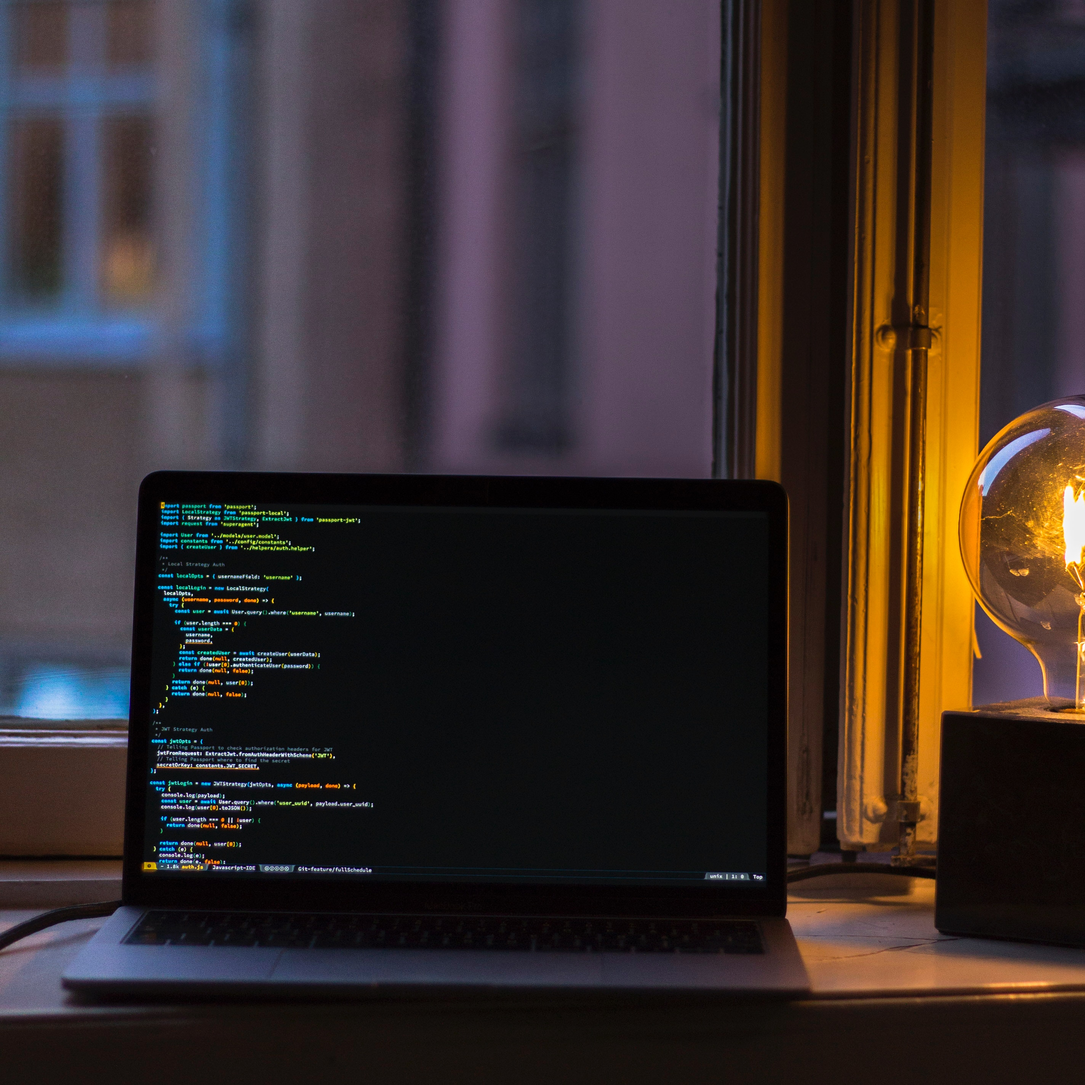
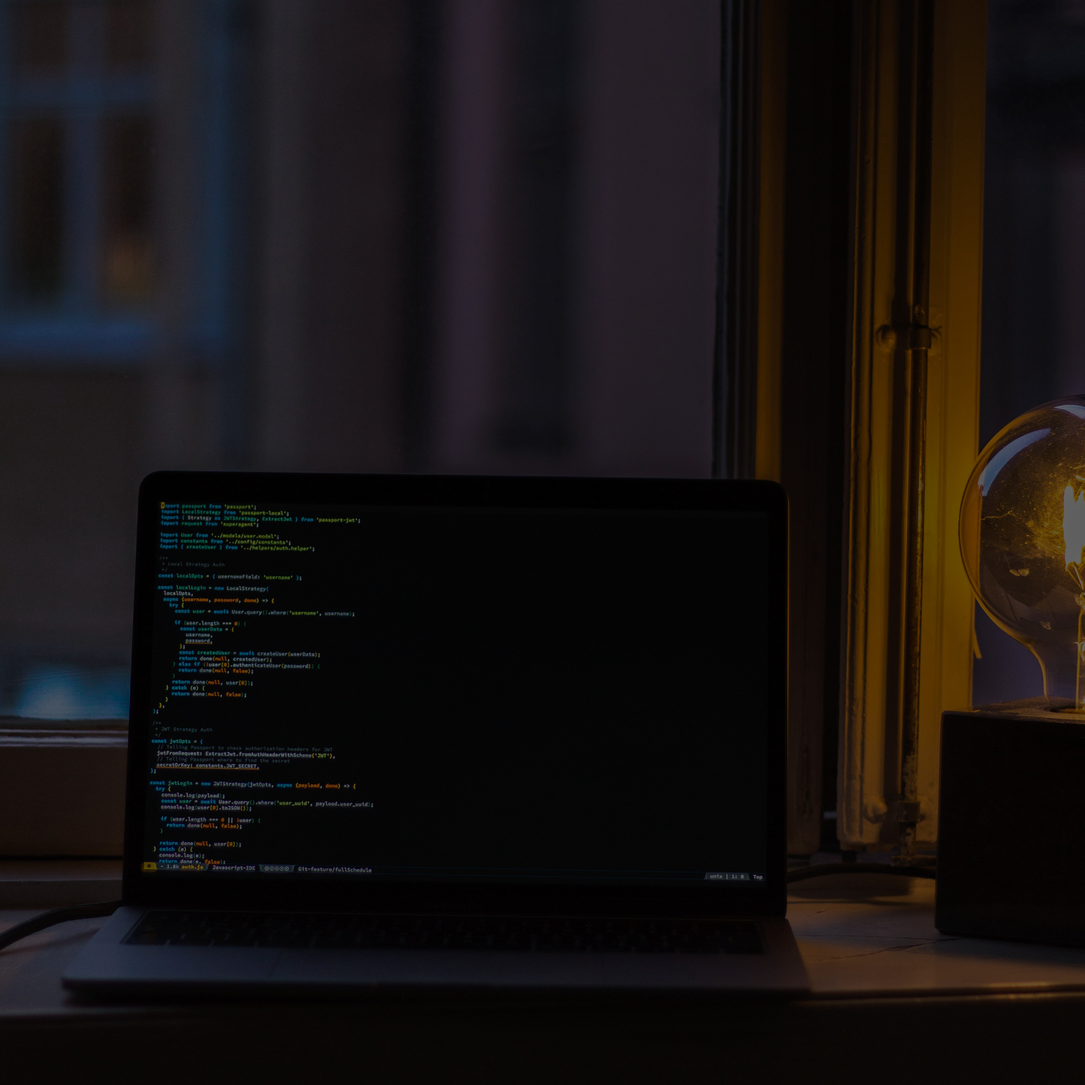
Darken header background image in Photoshop instead of CSS
- IE doesn't support `background-blend-mode` and shows the raw image.
- Pixel 3 is affected by https://bugs.chromium.org/p/chromium/issues/detail?id=978354 and shows only a gray color.

diff --git a/css/agency.min.css b/css/agency.min.css
@@ -2,4 +2,4 @@
  * Start Bootstrap - Agency v5.2.1 (https://startbootstrap.com/template-overviews/agency)
  * Copyright 2013-2019 Start Bootstrap
  * Licensed under MIT (https://github.com/BlackrockDigital/startbootstrap-agency/blob/master/LICENSE)
- */body{overflow-x:hidden;font-family:'Roboto Slab',-apple-system,BlinkMacSystemFont,'Segoe UI',Roboto,'Helvetica Neue',Arial,sans-serif,'Apple Color Emoji','Segoe UI Emoji','Segoe UI Symbol','Noto Color Emoji'}p{line-height:1.75}a{color:#fed136}a:hover{color:#fec503}.text-primary{color:#fed136!important}h1,h2,h3,h4,h5,h6{font-weight:700;font-family:Montserrat,-apple-system,BlinkMacSystemFont,'Segoe UI',Roboto,'Helvetica Neue',Arial,sans-serif,'Apple Color Emoji','Segoe UI Emoji','Segoe UI Symbol','Noto Color Emoji'}.page-section{padding:100px 0}.page-section h2.section-heading{font-size:40px;margin-top:0;margin-bottom:15px}.page-section h3.section-subheading{font-size:16px;font-weight:400;font-style:italic;margin-bottom:75px;text-transform:none;font-family:'Droid Serif',-apple-system,BlinkMacSystemFont,'Segoe UI',Roboto,'Helvetica Neue',Arial,sans-serif,'Apple Color Emoji','Segoe UI Emoji','Segoe UI Symbol','Noto Color Emoji'}@media (min-width:768px){section{padding:150px 0}}::-moz-selection{background:#fed136;text-shadow:none}::selection{background:#fed136;text-shadow:none}img::-moz-selection{background:0 0}img::selection{background:0 0}img::-moz-selection{background:0 0}.btn{font-family:Montserrat,-apple-system,BlinkMacSystemFont,'Segoe UI',Roboto,'Helvetica Neue',Arial,sans-serif,'Apple Color Emoji','Segoe UI Emoji','Segoe UI Symbol','Noto Color Emoji';font-weight:700}.btn-xl{font-size:18px;padding:20px 40px}.btn-primary{background-color:#fed136;border-color:#fed136}.btn-primary:active,.btn-primary:focus,.btn-primary:hover{background-color:#fec810!important;border-color:#fec810!important;color:#fff}.btn-primary:active,.btn-primary:focus{-webkit-box-shadow:0 0 0 .2rem rgba(254,209,55,.5)!important;box-shadow:0 0 0 .2rem rgba(254,209,55,.5)!important}#mainNav{background-color:#212529}#mainNav .navbar-toggler{font-size:12px;right:0;padding:13px;text-transform:uppercase;color:#fff;border:0;background-color:#fed136;font-family:Montserrat,-apple-system,BlinkMacSystemFont,'Segoe UI',Roboto,'Helvetica Neue',Arial,sans-serif,'Apple Color Emoji','Segoe UI Emoji','Segoe UI Symbol','Noto Color Emoji'}#mainNav .navbar-brand{color:#fed136;font-family:'Kaushan Script',-apple-system,BlinkMacSystemFont,'Segoe UI',Roboto,'Helvetica Neue',Arial,sans-serif,'Apple Color Emoji','Segoe UI Emoji','Segoe UI Symbol','Noto Color Emoji'}#mainNav .navbar-brand.active,#mainNav .navbar-brand:active,#mainNav .navbar-brand:focus,#mainNav .navbar-brand:hover{color:#fec503}#mainNav .navbar-nav .nav-item .nav-link{font-size:90%;font-weight:400;padding:.75em 0;letter-spacing:1px;color:#fff;font-family:Montserrat,-apple-system,BlinkMacSystemFont,'Segoe UI',Roboto,'Helvetica Neue',Arial,sans-serif,'Apple Color Emoji','Segoe UI Emoji','Segoe UI Symbol','Noto Color Emoji'}#mainNav .navbar-nav .nav-item .nav-link.active,#mainNav .navbar-nav .nav-item .nav-link:hover{color:#fed136}@media (min-width:992px){#mainNav{padding-top:25px;padding-bottom:25px;-webkit-transition:padding-top .3s,padding-bottom .3s;transition:padding-top .3s,padding-bottom .3s;border:none;background-color:transparent}#mainNav .navbar-brand{font-size:1.75em;-webkit-transition:all .3s;transition:all .3s}#mainNav .navbar-nav .nav-item .nav-link{padding:1.1em 1em!important}#mainNav.navbar-shrink{padding-top:0;padding-bottom:0;background-color:#212529}#mainNav.navbar-shrink .navbar-brand{font-size:1.25em;padding:12px 0}}header.masthead{text-align:center;color:#fff;background-image:url(../img/header-bg-small.jpg);background-color:rgba(0,0,0,.6);background-blend-mode:multiply;background-repeat:no-repeat;background-attachment:scroll;background-position:center center;background-size:cover}header.masthead .intro-text{padding-top:150px;padding-bottom:100px}header.masthead .intro-text .intro-lead-in{font-size:22px;font-style:italic;line-height:22px;margin-bottom:25px;font-family:'Droid Serif',-apple-system,BlinkMacSystemFont,'Segoe UI',Roboto,'Helvetica Neue',Arial,sans-serif,'Apple Color Emoji','Segoe UI Emoji','Segoe UI Symbol','Noto Color Emoji'}header.masthead .intro-text .intro-heading{font-size:50px;font-weight:700;line-height:50px;margin-bottom:25px;font-family:Montserrat,-apple-system,BlinkMacSystemFont,'Segoe UI',Roboto,'Helvetica Neue',Arial,sans-serif,'Apple Color Emoji','Segoe UI Emoji','Segoe UI Symbol','Noto Color Emoji'}@media (min-width:768px){header.masthead .intro-text{padding-top:300px;padding-bottom:200px}header.masthead .intro-text .intro-lead-in{font-size:40px;font-style:italic;line-height:40px;margin-bottom:25px;font-family:'Droid Serif',-apple-system,BlinkMacSystemFont,'Segoe UI',Roboto,'Helvetica Neue',Arial,sans-serif,'Apple Color Emoji','Segoe UI Emoji','Segoe UI Symbol','Noto Color Emoji'}header.masthead .intro-text .intro-heading{font-size:75px;font-weight:700;line-height:75px;margin-bottom:50px;font-family:Montserrat,-apple-system,BlinkMacSystemFont,'Segoe UI',Roboto,'Helvetica Neue',Arial,sans-serif,'Apple Color Emoji','Segoe UI Emoji','Segoe UI Symbol','Noto Color Emoji'}}@media (min-width:768px){header.masthead{background-image:url(../img/header-bg-large.jpg)}}.service-heading{margin:15px 0;text-transform:none}#portfolio .portfolio-item{right:0;margin:0 0 15px}#portfolio .portfolio-item .portfolio-link{position:relative;display:block;max-width:400px;margin:0 auto;cursor:pointer}#portfolio .portfolio-item .portfolio-link .portfolio-hover{position:absolute;width:100%;height:100%;-webkit-transition:all ease .5s;transition:all ease .5s;opacity:0;background:rgba(254,209,54,.9)}#portfolio .portfolio-item .portfolio-link .portfolio-hover:hover{opacity:1}#portfolio .portfolio-item .portfolio-link .portfolio-hover .portfolio-hover-content{font-size:20px;position:absolute;top:50%;width:100%;height:20px;margin-top:-12px;text-align:center;color:#fff}#portfolio .portfolio-item .portfolio-link .portfolio-hover .portfolio-hover-content i{margin-top:-12px}#portfolio .portfolio-item .portfolio-link .portfolio-hover .portfolio-hover-content h3,#portfolio .portfolio-item .portfolio-link .portfolio-hover .portfolio-hover-content h4{margin:0}#portfolio .portfolio-item .portfolio-caption{max-width:400px;margin:0 auto;padding:25px;text-align:center;background-color:#fff}#portfolio .portfolio-item .portfolio-caption h4{margin:0;text-transform:none}#portfolio .portfolio-item .portfolio-caption p{font-size:16px;font-style:italic;margin:0;font-family:'Droid Serif',-apple-system,BlinkMacSystemFont,'Segoe UI',Roboto,'Helvetica Neue',Arial,sans-serif,'Apple Color Emoji','Segoe UI Emoji','Segoe UI Symbol','Noto Color Emoji'}#portfolio *{z-index:2}@media (min-width:767px){#portfolio .portfolio-item{margin:0 0 30px}}.portfolio-modal .modal-dialog{margin:1rem;max-width:100vw}.portfolio-modal .modal-content{padding:100px 0;text-align:center}.portfolio-modal .modal-content h2{font-size:3em;margin-bottom:15px}.portfolio-modal .modal-content p{margin-bottom:30px}.portfolio-modal .modal-content p.item-intro{font-size:16px;font-style:italic;margin:20px 0 30px;font-family:'Droid Serif',-apple-system,BlinkMacSystemFont,'Segoe UI',Roboto,'Helvetica Neue',Arial,sans-serif,'Apple Color Emoji','Segoe UI Emoji','Segoe UI Symbol','Noto Color Emoji'}.portfolio-modal .modal-content ul.list-inline{margin-top:0;margin-bottom:30px}.portfolio-modal .modal-content img{margin-bottom:30px}.portfolio-modal .modal-content button{cursor:pointer}.portfolio-modal .close-modal{position:absolute;top:25px;right:25px;width:75px;height:75px;cursor:pointer;background-color:transparent}.portfolio-modal .close-modal:hover{opacity:.3}.portfolio-modal .close-modal .lr{z-index:1051;width:1px;height:75px;margin-left:35px;-webkit-transform:rotate(45deg);transform:rotate(45deg);background-color:#212529}.portfolio-modal .close-modal .lr .rl{z-index:1052;width:1px;height:75px;-webkit-transform:rotate(90deg);transform:rotate(90deg);background-color:#212529}.timeline{position:relative;padding:0;list-style:none}.timeline:before{position:absolute;top:0;bottom:0;left:40px;width:2px;margin-left:-1.5px;content:'';background-color:#e9ecef}.timeline>li{position:relative;min-height:50px;margin-bottom:50px}.timeline>li:after,.timeline>li:before{display:table;content:' '}.timeline>li:after{clear:both}.timeline>li .timeline-panel{position:relative;float:right;width:100%;padding:0 20px 0 100px;text-align:left}.timeline>li .timeline-panel:before{right:auto;left:-15px;border-right-width:15px;border-left-width:0}.timeline>li .timeline-panel:after{right:auto;left:-14px;border-right-width:14px;border-left-width:0}.timeline>li .timeline-image{position:absolute;z-index:100;left:0;width:80px;height:80px;margin-left:0;text-align:center;color:#fff;border:7px solid #e9ecef;border-radius:100%;background-color:#fed136}.timeline>li .timeline-image h4{font-size:10px;line-height:14px;margin-top:12px}.timeline>li.timeline-inverted>.timeline-panel{float:right;padding:0 20px 0 100px;text-align:left}.timeline>li.timeline-inverted>.timeline-panel:before{right:auto;left:-15px;border-right-width:15px;border-left-width:0}.timeline>li.timeline-inverted>.timeline-panel:after{right:auto;left:-14px;border-right-width:14px;border-left-width:0}.timeline>li:last-child{margin-bottom:0}.timeline .timeline-heading h4{margin-top:0;color:inherit}.timeline .timeline-heading h4.subheading{text-transform:none}.timeline .timeline-body>p,.timeline .timeline-body>ul{margin-bottom:0}@media (min-width:768px){.timeline:before{left:50%}.timeline>li{min-height:100px;margin-bottom:100px}.timeline>li .timeline-panel{float:left;width:41%;padding:0 20px 20px 30px;text-align:right}.timeline>li .timeline-image{left:50%;width:100px;height:100px;margin-left:-50px}.timeline>li .timeline-image h4{font-size:13px;line-height:18px;margin-top:16px}.timeline>li.timeline-inverted>.timeline-panel{float:right;padding:0 30px 20px 20px;text-align:left}}@media (min-width:992px){.timeline>li{min-height:150px}.timeline>li .timeline-panel{padding:0 20px 20px}.timeline>li .timeline-image{width:150px;height:150px;margin-left:-75px}.timeline>li .timeline-image h4{font-size:18px;line-height:26px;margin-top:30px}.timeline>li.timeline-inverted>.timeline-panel{padding:0 20px 20px}}@media (min-width:1200px){.timeline>li{min-height:170px}.timeline>li .timeline-panel{padding:0 20px 20px 100px}.timeline>li .timeline-image{width:170px;height:170px;margin-left:-85px}.timeline>li .timeline-image h4{margin-top:40px}.timeline>li.timeline-inverted>.timeline-panel{padding:0 100px 20px 20px}}.team-member{margin-bottom:50px;text-align:center}.team-member img{width:225px;height:225px;border:7px solid #fff}.team-member h4{margin-top:25px;margin-bottom:0;text-transform:none}.team-member p{margin-top:0}section#contact{background-color:#212529;background-image:url(../img/map-image-small.png);background-repeat:no-repeat;background-position:center}section#contact .section-heading{color:#fff}section#contact .form-group{margin-bottom:25px}section#contact .form-group input,section#contact .form-group textarea{padding:20px}section#contact .form-group input.form-control{height:auto}section#contact .form-group textarea.form-control{height:248px}section#contact .form-control:focus{border-color:#fed136;-webkit-box-shadow:none;box-shadow:none}section#contact ::-webkit-input-placeholder{font-weight:700;color:#ced4da;font-family:Montserrat,-apple-system,BlinkMacSystemFont,'Segoe UI',Roboto,'Helvetica Neue',Arial,sans-serif,'Apple Color Emoji','Segoe UI Emoji','Segoe UI Symbol','Noto Color Emoji'}section#contact :-moz-placeholder{font-weight:700;color:#ced4da;font-family:Montserrat,-apple-system,BlinkMacSystemFont,'Segoe UI',Roboto,'Helvetica Neue',Arial,sans-serif,'Apple Color Emoji','Segoe UI Emoji','Segoe UI Symbol','Noto Color Emoji'}section#contact ::-moz-placeholder{font-weight:700;color:#ced4da;font-family:Montserrat,-apple-system,BlinkMacSystemFont,'Segoe UI',Roboto,'Helvetica Neue',Arial,sans-serif,'Apple Color Emoji','Segoe UI Emoji','Segoe UI Symbol','Noto Color Emoji'}section#contact :-ms-input-placeholder{font-weight:700;color:#ced4da;font-family:Montserrat,-apple-system,BlinkMacSystemFont,'Segoe UI',Roboto,'Helvetica Neue',Arial,sans-serif,'Apple Color Emoji','Segoe UI Emoji','Segoe UI Symbol','Noto Color Emoji'}@media (min-width:768px){section#contact{background-image:url(../img/map-image-large.png)}}.footer{padding:25px 0;text-align:center}.footer span.copyright{font-size:90%;line-height:20px;text-transform:none;font-family:Montserrat,-apple-system,BlinkMacSystemFont,'Segoe UI',Roboto,'Helvetica Neue',Arial,sans-serif,'Apple Color Emoji','Segoe UI Emoji','Segoe UI Symbol','Noto Color Emoji'}.footer ul.quicklinks{font-size:90%;line-height:40px;margin-bottom:0;text-transform:none;font-family:Montserrat,-apple-system,BlinkMacSystemFont,'Segoe UI',Roboto,'Helvetica Neue',Arial,sans-serif,'Apple Color Emoji','Segoe UI Emoji','Segoe UI Symbol','Noto Color Emoji'}ul.social-buttons,ul.social-buttons-dark{margin-bottom:0}ul.social-buttons li a,ul.social-buttons-dark li a{font-size:20px;line-height:50px;display:block;width:50px;height:50px;-webkit-transition:all .3s;transition:all .3s;color:#fff;border-radius:100%;outline:0;background-color:#212529}ul.social-buttons li a:active,ul.social-buttons li a:focus,ul.social-buttons li a:hover,ul.social-buttons-dark li a:active,ul.social-buttons-dark li a:focus,ul.social-buttons-dark li a:hover{background-color:#fed136}ul.social-buttons-dark li a{background-color:#fed136}ul.social-buttons-dark li a:active,ul.social-buttons-dark li a:focus,ul.social-buttons-dark li a:hover{background-color:#fec810!important}
+ */body{overflow-x:hidden;font-family:'Roboto Slab',-apple-system,BlinkMacSystemFont,'Segoe UI',Roboto,'Helvetica Neue',Arial,sans-serif,'Apple Color Emoji','Segoe UI Emoji','Segoe UI Symbol','Noto Color Emoji'}p{line-height:1.75}a{color:#fed136}a:hover{color:#fec503}.text-primary{color:#fed136!important}h1,h2,h3,h4,h5,h6{font-weight:700;font-family:Montserrat,-apple-system,BlinkMacSystemFont,'Segoe UI',Roboto,'Helvetica Neue',Arial,sans-serif,'Apple Color Emoji','Segoe UI Emoji','Segoe UI Symbol','Noto Color Emoji'}.page-section{padding:100px 0}.page-section h2.section-heading{font-size:40px;margin-top:0;margin-bottom:15px}.page-section h3.section-subheading{font-size:16px;font-weight:400;font-style:italic;margin-bottom:75px;text-transform:none;font-family:'Droid Serif',-apple-system,BlinkMacSystemFont,'Segoe UI',Roboto,'Helvetica Neue',Arial,sans-serif,'Apple Color Emoji','Segoe UI Emoji','Segoe UI Symbol','Noto Color Emoji'}@media (min-width:768px){section{padding:150px 0}}::-moz-selection{background:#fed136;text-shadow:none}::selection{background:#fed136;text-shadow:none}img::-moz-selection{background:0 0}img::selection{background:0 0}img::-moz-selection{background:0 0}.btn{font-family:Montserrat,-apple-system,BlinkMacSystemFont,'Segoe UI',Roboto,'Helvetica Neue',Arial,sans-serif,'Apple Color Emoji','Segoe UI Emoji','Segoe UI Symbol','Noto Color Emoji';font-weight:700}.btn-xl{font-size:18px;padding:20px 40px}.btn-primary{background-color:#fed136;border-color:#fed136}.btn-primary:active,.btn-primary:focus,.btn-primary:hover{background-color:#fec810!important;border-color:#fec810!important;color:#fff}.btn-primary:active,.btn-primary:focus{-webkit-box-shadow:0 0 0 .2rem rgba(254,209,55,.5)!important;box-shadow:0 0 0 .2rem rgba(254,209,55,.5)!important}#mainNav{background-color:#212529}#mainNav .navbar-toggler{font-size:12px;right:0;padding:13px;text-transform:uppercase;color:#fff;border:0;background-color:#fed136;font-family:Montserrat,-apple-system,BlinkMacSystemFont,'Segoe UI',Roboto,'Helvetica Neue',Arial,sans-serif,'Apple Color Emoji','Segoe UI Emoji','Segoe UI Symbol','Noto Color Emoji'}#mainNav .navbar-brand{color:#fed136;font-family:'Kaushan Script',-apple-system,BlinkMacSystemFont,'Segoe UI',Roboto,'Helvetica Neue',Arial,sans-serif,'Apple Color Emoji','Segoe UI Emoji','Segoe UI Symbol','Noto Color Emoji'}#mainNav .navbar-brand.active,#mainNav .navbar-brand:active,#mainNav .navbar-brand:focus,#mainNav .navbar-brand:hover{color:#fec503}#mainNav .navbar-nav .nav-item .nav-link{font-size:90%;font-weight:400;padding:.75em 0;letter-spacing:1px;color:#fff;font-family:Montserrat,-apple-system,BlinkMacSystemFont,'Segoe UI',Roboto,'Helvetica Neue',Arial,sans-serif,'Apple Color Emoji','Segoe UI Emoji','Segoe UI Symbol','Noto Color Emoji'}#mainNav .navbar-nav .nav-item .nav-link.active,#mainNav .navbar-nav .nav-item .nav-link:hover{color:#fed136}@media (min-width:992px){#mainNav{padding-top:25px;padding-bottom:25px;-webkit-transition:padding-top .3s,padding-bottom .3s;transition:padding-top .3s,padding-bottom .3s;border:none;background-color:transparent}#mainNav .navbar-brand{font-size:1.75em;-webkit-transition:all .3s;transition:all .3s}#mainNav .navbar-nav .nav-item .nav-link{padding:1.1em 1em!important}#mainNav.navbar-shrink{padding-top:0;padding-bottom:0;background-color:#212529}#mainNav.navbar-shrink .navbar-brand{font-size:1.25em;padding:12px 0}}header.masthead{text-align:center;color:#fff;background-image:url(../img/header-bg-small.jpg);background-repeat:no-repeat;background-attachment:scroll;background-position:center center;background-size:cover}header.masthead .intro-text{padding-top:150px;padding-bottom:100px}header.masthead .intro-text .intro-lead-in{font-size:22px;font-style:italic;line-height:22px;margin-bottom:25px;font-family:'Droid Serif',-apple-system,BlinkMacSystemFont,'Segoe UI',Roboto,'Helvetica Neue',Arial,sans-serif,'Apple Color Emoji','Segoe UI Emoji','Segoe UI Symbol','Noto Color Emoji'}header.masthead .intro-text .intro-heading{font-size:50px;font-weight:700;line-height:50px;margin-bottom:25px;font-family:Montserrat,-apple-system,BlinkMacSystemFont,'Segoe UI',Roboto,'Helvetica Neue',Arial,sans-serif,'Apple Color Emoji','Segoe UI Emoji','Segoe UI Symbol','Noto Color Emoji'}@media (min-width:768px){header.masthead .intro-text{padding-top:300px;padding-bottom:200px}header.masthead .intro-text .intro-lead-in{font-size:40px;font-style:italic;line-height:40px;margin-bottom:25px;font-family:'Droid Serif',-apple-system,BlinkMacSystemFont,'Segoe UI',Roboto,'Helvetica Neue',Arial,sans-serif,'Apple Color Emoji','Segoe UI Emoji','Segoe UI Symbol','Noto Color Emoji'}header.masthead .intro-text .intro-heading{font-size:75px;font-weight:700;line-height:75px;margin-bottom:50px;font-family:Montserrat,-apple-system,BlinkMacSystemFont,'Segoe UI',Roboto,'Helvetica Neue',Arial,sans-serif,'Apple Color Emoji','Segoe UI Emoji','Segoe UI Symbol','Noto Color Emoji'}}@media (min-width:768px){header.masthead{background-image:url(../img/header-bg-large.jpg)}}.service-heading{margin:15px 0;text-transform:none}#portfolio .portfolio-item{right:0;margin:0 0 15px}#portfolio .portfolio-item .portfolio-link{position:relative;display:block;max-width:400px;margin:0 auto;cursor:pointer}#portfolio .portfolio-item .portfolio-link .portfolio-hover{position:absolute;width:100%;height:100%;-webkit-transition:all ease .5s;transition:all ease .5s;opacity:0;background:rgba(254,209,54,.9)}#portfolio .portfolio-item .portfolio-link .portfolio-hover:hover{opacity:1}#portfolio .portfolio-item .portfolio-link .portfolio-hover .portfolio-hover-content{font-size:20px;position:absolute;top:50%;width:100%;height:20px;margin-top:-12px;text-align:center;color:#fff}#portfolio .portfolio-item .portfolio-link .portfolio-hover .portfolio-hover-content i{margin-top:-12px}#portfolio .portfolio-item .portfolio-link .portfolio-hover .portfolio-hover-content h3,#portfolio .portfolio-item .portfolio-link .portfolio-hover .portfolio-hover-content h4{margin:0}#portfolio .portfolio-item .portfolio-caption{max-width:400px;margin:0 auto;padding:25px;text-align:center;background-color:#fff}#portfolio .portfolio-item .portfolio-caption h4{margin:0;text-transform:none}#portfolio .portfolio-item .portfolio-caption p{font-size:16px;font-style:italic;margin:0;font-family:'Droid Serif',-apple-system,BlinkMacSystemFont,'Segoe UI',Roboto,'Helvetica Neue',Arial,sans-serif,'Apple Color Emoji','Segoe UI Emoji','Segoe UI Symbol','Noto Color Emoji'}#portfolio *{z-index:2}@media (min-width:767px){#portfolio .portfolio-item{margin:0 0 30px}}.portfolio-modal .modal-dialog{margin:1rem;max-width:100vw}.portfolio-modal .modal-content{padding:100px 0;text-align:center}.portfolio-modal .modal-content h2{font-size:3em;margin-bottom:15px}.portfolio-modal .modal-content p{margin-bottom:30px}.portfolio-modal .modal-content p.item-intro{font-size:16px;font-style:italic;margin:20px 0 30px;font-family:'Droid Serif',-apple-system,BlinkMacSystemFont,'Segoe UI',Roboto,'Helvetica Neue',Arial,sans-serif,'Apple Color Emoji','Segoe UI Emoji','Segoe UI Symbol','Noto Color Emoji'}.portfolio-modal .modal-content ul.list-inline{margin-top:0;margin-bottom:30px}.portfolio-modal .modal-content img{margin-bottom:30px}.portfolio-modal .modal-content button{cursor:pointer}.portfolio-modal .close-modal{position:absolute;top:25px;right:25px;width:75px;height:75px;cursor:pointer;background-color:transparent}.portfolio-modal .close-modal:hover{opacity:.3}.portfolio-modal .close-modal .lr{z-index:1051;width:1px;height:75px;margin-left:35px;-webkit-transform:rotate(45deg);transform:rotate(45deg);background-color:#212529}.portfolio-modal .close-modal .lr .rl{z-index:1052;width:1px;height:75px;-webkit-transform:rotate(90deg);transform:rotate(90deg);background-color:#212529}.timeline{position:relative;padding:0;list-style:none}.timeline:before{position:absolute;top:0;bottom:0;left:40px;width:2px;margin-left:-1.5px;content:'';background-color:#e9ecef}.timeline>li{position:relative;min-height:50px;margin-bottom:50px}.timeline>li:after,.timeline>li:before{display:table;content:' '}.timeline>li:after{clear:both}.timeline>li .timeline-panel{position:relative;float:right;width:100%;padding:0 20px 0 100px;text-align:left}.timeline>li .timeline-panel:before{right:auto;left:-15px;border-right-width:15px;border-left-width:0}.timeline>li .timeline-panel:after{right:auto;left:-14px;border-right-width:14px;border-left-width:0}.timeline>li .timeline-image{position:absolute;z-index:100;left:0;width:80px;height:80px;margin-left:0;text-align:center;color:#fff;border:7px solid #e9ecef;border-radius:100%;background-color:#fed136}.timeline>li .timeline-image h4{font-size:10px;line-height:14px;margin-top:12px}.timeline>li.timeline-inverted>.timeline-panel{float:right;padding:0 20px 0 100px;text-align:left}.timeline>li.timeline-inverted>.timeline-panel:before{right:auto;left:-15px;border-right-width:15px;border-left-width:0}.timeline>li.timeline-inverted>.timeline-panel:after{right:auto;left:-14px;border-right-width:14px;border-left-width:0}.timeline>li:last-child{margin-bottom:0}.timeline .timeline-heading h4{margin-top:0;color:inherit}.timeline .timeline-heading h4.subheading{text-transform:none}.timeline .timeline-body>p,.timeline .timeline-body>ul{margin-bottom:0}@media (min-width:768px){.timeline:before{left:50%}.timeline>li{min-height:100px;margin-bottom:100px}.timeline>li .timeline-panel{float:left;width:41%;padding:0 20px 20px 30px;text-align:right}.timeline>li .timeline-image{left:50%;width:100px;height:100px;margin-left:-50px}.timeline>li .timeline-image h4{font-size:13px;line-height:18px;margin-top:16px}.timeline>li.timeline-inverted>.timeline-panel{float:right;padding:0 30px 20px 20px;text-align:left}}@media (min-width:992px){.timeline>li{min-height:150px}.timeline>li .timeline-panel{padding:0 20px 20px}.timeline>li .timeline-image{width:150px;height:150px;margin-left:-75px}.timeline>li .timeline-image h4{font-size:18px;line-height:26px;margin-top:30px}.timeline>li.timeline-inverted>.timeline-panel{padding:0 20px 20px}}@media (min-width:1200px){.timeline>li{min-height:170px}.timeline>li .timeline-panel{padding:0 20px 20px 100px}.timeline>li .timeline-image{width:170px;height:170px;margin-left:-85px}.timeline>li .timeline-image h4{margin-top:40px}.timeline>li.timeline-inverted>.timeline-panel{padding:0 100px 20px 20px}}.team-member{margin-bottom:50px;text-align:center}.team-member img{width:225px;height:225px;border:7px solid #fff}.team-member h4{margin-top:25px;margin-bottom:0;text-transform:none}.team-member p{margin-top:0}section#contact{background-color:#212529;background-image:url(../img/map-image-small.png);background-repeat:no-repeat;background-position:center}section#contact .section-heading{color:#fff}section#contact .form-group{margin-bottom:25px}section#contact .form-group input,section#contact .form-group textarea{padding:20px}section#contact .form-group input.form-control{height:auto}section#contact .form-group textarea.form-control{height:248px}section#contact .form-control:focus{border-color:#fed136;-webkit-box-shadow:none;box-shadow:none}section#contact ::-webkit-input-placeholder{font-weight:700;color:#ced4da;font-family:Montserrat,-apple-system,BlinkMacSystemFont,'Segoe UI',Roboto,'Helvetica Neue',Arial,sans-serif,'Apple Color Emoji','Segoe UI Emoji','Segoe UI Symbol','Noto Color Emoji'}section#contact :-moz-placeholder{font-weight:700;color:#ced4da;font-family:Montserrat,-apple-system,BlinkMacSystemFont,'Segoe UI',Roboto,'Helvetica Neue',Arial,sans-serif,'Apple Color Emoji','Segoe UI Emoji','Segoe UI Symbol','Noto Color Emoji'}section#contact ::-moz-placeholder{font-weight:700;color:#ced4da;font-family:Montserrat,-apple-system,BlinkMacSystemFont,'Segoe UI',Roboto,'Helvetica Neue',Arial,sans-serif,'Apple Color Emoji','Segoe UI Emoji','Segoe UI Symbol','Noto Color Emoji'}section#contact :-ms-input-placeholder{font-weight:700;color:#ced4da;font-family:Montserrat,-apple-system,BlinkMacSystemFont,'Segoe UI',Roboto,'Helvetica Neue',Arial,sans-serif,'Apple Color Emoji','Segoe UI Emoji','Segoe UI Symbol','Noto Color Emoji'}@media (min-width:768px){section#contact{background-image:url(../img/map-image-large.png)}}.footer{padding:25px 0;text-align:center}.footer span.copyright{font-size:90%;line-height:20px;text-transform:none;font-family:Montserrat,-apple-system,BlinkMacSystemFont,'Segoe UI',Roboto,'Helvetica Neue',Arial,sans-serif,'Apple Color Emoji','Segoe UI Emoji','Segoe UI Symbol','Noto Color Emoji'}.footer ul.quicklinks{font-size:90%;line-height:40px;margin-bottom:0;text-transform:none;font-family:Montserrat,-apple-system,BlinkMacSystemFont,'Segoe UI',Roboto,'Helvetica Neue',Arial,sans-serif,'Apple Color Emoji','Segoe UI Emoji','Segoe UI Symbol','Noto Color Emoji'}ul.social-buttons,ul.social-buttons-dark{margin-bottom:0}ul.social-buttons li a,ul.social-buttons-dark li a{font-size:20px;line-height:50px;display:block;width:50px;height:50px;-webkit-transition:all .3s;transition:all .3s;color:#fff;border-radius:100%;outline:0;background-color:#212529}ul.social-buttons li a:active,ul.social-buttons li a:focus,ul.social-buttons li a:hover,ul.social-buttons-dark li a:active,ul.social-buttons-dark li a:focus,ul.social-buttons-dark li a:hover{background-color:#fed136}ul.social-buttons-dark li a{background-color:#fed136}ul.social-buttons-dark li a:active,ul.social-buttons-dark li a:focus,ul.social-buttons-dark li a:hover{background-color:#fec810!important}

diff --git a/css/agency.css b/css/agency.css
@@ -177,8 +177,6 @@ header.masthead {
   text-align: center;
   color: white;
   background-image: url("../img/header-bg-small.jpg");
-  background-color: rgba(0, 0, 0, 0.6);
-  background-blend-mode: multiply;
   background-repeat: no-repeat;
   background-attachment: scroll;
   background-position: center center;

diff --git a/scss/layout/_masthead.scss b/scss/layout/_masthead.scss
@@ -3,8 +3,6 @@ header.masthead {
   text-align: center;
   color: white;
   background-image: url('../img/header-bg-small.jpg');
-  background-color: rgba(0, 0, 0, 0.6);
-  background-blend-mode: multiply;
   background-repeat: no-repeat;
   background-attachment: scroll;
   background-position: center center;
